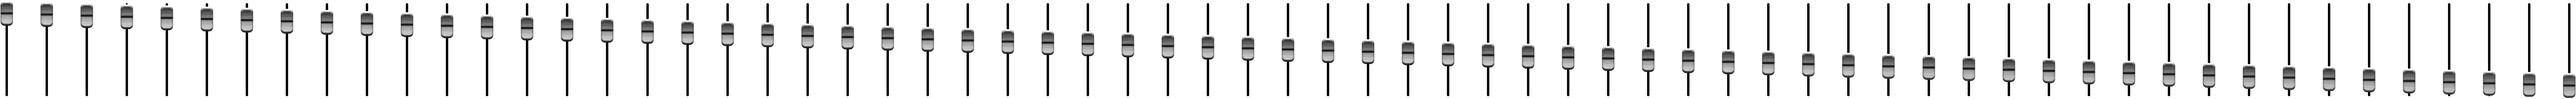
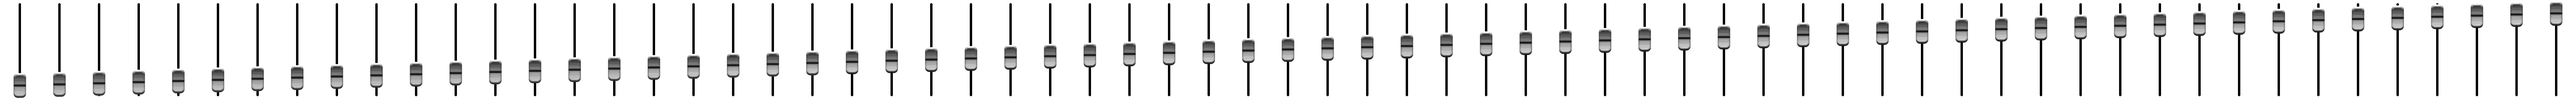
design - fixing sliders

Changed region(s): [[0.0, 0.028, 1.0, 0.98]]

diff --git a/html/resources/knobs/boxy/boxy.css b/html/resources/knobs/boxy/boxy.css
@@ -9,6 +9,11 @@
     z-index:30;
 }
 
+.pedal-boxy .knob-group .knob {
+    overflow:hidden;
+    position:relative;
+}
+
 .pedal-boxy .knob-group .knob > span.title {
     display:block;
     font-size:11px;
@@ -109,23 +114,6 @@
     width:70px;
 }
 
-/* THREE KNOBS */
-.pedal-boxy.three-knobs .author {
-    top:150px;
-}
-
-.pedal-boxy.three-knobs .name {
-    top:345px;
-}
-
-.pedal-boxy.three-knobs .light { 
-    top:230px;
-}
-
-.pedal-boxy.three-knobs .footswitch { 
-    top:275px;
-}
-
 /* FIVE KNOBS */
 .pedal-boxy.five-knobs .author {
     top:190px;
@@ -174,11 +162,15 @@
 }
 
 .pedal-boxy.seven-knobs .footswitch { 
-    top:240px;
+    top:284px;
 }
 
 
 /* EIGTH KNOBS */
+.pedal-boxy.eight-knobs .knob {
+    width:70px;
+}
+
 .pedal-boxy.eight-knobs .author {
     top:190px;
 }
@@ -192,5 +184,5 @@
 }
 
 .pedal-boxy.eight-knobs .footswitch { 
-    top:240px;
+    top:284px;
 }

diff --git a/html/resources/sliders/slider01/slider.css b/html/resources/sliders/slider01/slider.css
@@ -1,4 +1,6 @@
 /* SLIDER */
+
+
 .pedal .slider:first-child {
     margin-left:8px;
 }
@@ -16,27 +18,26 @@
     width:33px;
 }
 
+
 .pedal .slider .title {
     display:block;
     font-size:11px;
     font-weight:bold;
+    height:7px;
     line-height:1;
-    margin-bottom:11px;
+    margin-bottom:3px;
+    overflow:hidden;
     padding:7px 0 5px;
+    position:relative;
 }
 
 .pedal .slider .image {
     background-image:url(_strip.png);
-    background-position:center center;
     background-repeat:no-repeat;
     background-size:auto 110px;
     height:110px;
-    left:50%;
-    position:absolute;
-    margin-left:-9px;
-    top:25px;
-    width:18px;
-    z-index:2;
+    margin:0 auto;
+    width:44px;
 }
 
 .pedal .slider .image:hover {
